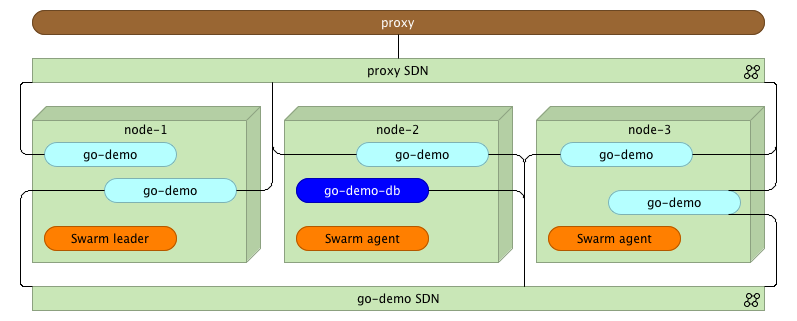
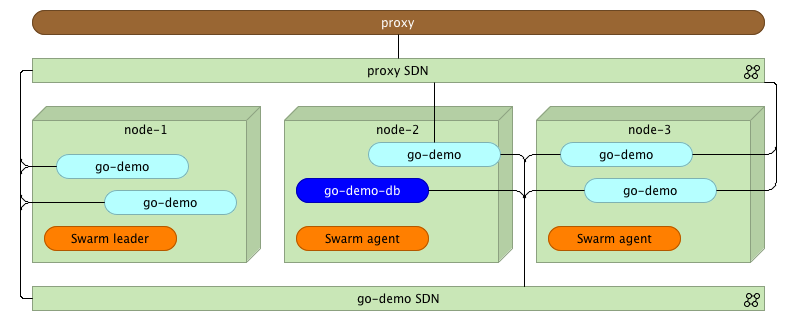
Swarm/Proxy rewrite

diff --git a/docker-swarm/docker-swarm-bundle.md b/docker-swarm/docker-swarm-bundle.md
@@ -1,12 +1,28 @@
+Distributed Application Bundles (Tour Around Docker 1.12 Series)
+================================================================
 
+The new Docker Swarm bundled in Docker 1.12+ is a huge improvement compared to the old orchestration and scheduling. If you haven't have a change to give it a spin, please read the [Docker Swarm Introduction](https://technologyconversations.com/2016/07/29/docker-swarm-introduction-tour-around-docker-1-12-series/) and [Integrating Proxy With Docker Swarm](https://technologyconversations.com/2016/08/01/integrating-proxy-with-docker-swarm-tour-around-docker-1-12-series/). There is no more the need to run a separate set of Swarm containers (it is bundled in Docker Engine), failover strategies are much more reliable, service discovery is baked in, the new networking works like a charm, and so on. The list of features and improvements is quite big.
+
+The above mentioned articles used commands to run Docker services inside the Swarm cluster. If you are like me, you are probably used to the simplicity Docker Compose provides. Instead trying to memorize commands with all the arguments required for running services, you probably specified everything as Docker Compose files and run containers with a simple `docker-compose up -d` command. After all, that is much more convenient than `docker service create` followed with an endless number of arguments. My brain does not have a capacity to memorize all of them. I'm saving it for more creative information.
+
+When I started "playing" with the new Swarm, my first impression was *this is great*, followed by *I don't want to memorize different arguments for all of my services*. I want my Compose files back into the game.
+
+One of the big changes is that container management has changed from client (*Docker Compose*) to server side (*Docker Service*). As a result, *Docker Compose* has become obsolete (at least when containers are deployed using *Docker Service*). It will stay as a preferable way to run containers in a single server environment but not much more. So, what should we do with all those *docker-compose.yml* files we created?
+
+The good news is we can use *Distributed Application Bundles* or *dab* files as a substitute for *docker service* command line arguments. The bad news is... Let's keep them for the end and explore the good parts first.
+
+We'll start by creating a demo Swarm cluster composed of Docker machines.
+
+Environment Setup
+-----------------
+
+The examples that follow assume that you have [Docker Machine](https://www.docker.com/products/docker-machine) version v0.8+ that includes [Docker Engine](https://www.docker.com/products/docker-engine) v1.12+. The easiest way to get them is through [Docker Toolbox](https://www.docker.com/products/docker-toolbox).
+
+> If you are a Windows user, please run all the examples from *Git Bash* (installed through *Docker Toolbox*).
+
+I won't go into details of the environment setup. It is the same as explained in the [Docker Swarm Introduction](https://technologyconversations.com/2016/07/29/docker-swarm-introduction-tour-around-docker-1-12-series/) article. We'll set up three nodes that they will form a Swarm cluster.
 
 ```bash
-git clone https://github.com/vfarcic/go-demo.git
-
-cd go-demo
-
-cat docker-compose.yml
-
 docker-machine create -d virtualbox node-1
 
 docker-machine create -d virtualbox node-2
@@ -28,21 +44,168 @@ docker swarm join --token $TOKEN $(docker-machine ip node-1):2377
 eval $(docker-machine env node-3)
 
 docker swarm join --token $TOKEN $(docker-machine ip node-1):2377
+```
 
+Now that we have the Swarm cluster, we can deploy a service using a *dab* file.
+
+![Docker Swarm cluster with three nodes](img/swarm-nodes.png)
+
+Deploying Services Using Distributed Application Bundles (DAB)
+--------------------------------------------------------------
+
+Instead creating networks and Docker services by specifying an endless amount of arguments, we'll use the dab file. This of it a Swarm equivalent of Docker Compose. By Swarm, I mean `docker swarm`, `docker service` and other goodies that came with version 1.12+.
+
+Instead trying to figure out the details of the new format for specifying services, we'll create it from a *docker-compose.yml* file.
+
+Let's start by checking out the code of a demo service.
+
+```bash
+git clone https://github.com/vfarcic/go-demo.git
+
+cd go-demo
+
+cat docker-compose.yml
+```
+
+The last command output the *Docker Compose* project definition. It is as follows.
+
+```
+version: '2'
+
+services:
+
+  app:
+    image: vfarcic/go-demo
+    ports:
+      - 8080
+
+  db:
+    image: mongo
+```
+
+As you can see, it is a very simple project. It consists of two services. The *app* service is the backend that exposes an API. It uses the second service (*db*) to store and retrieve data. The *app* target exposes port *8080* that will serve as an entry point to its API.
+
+Converting this *Docker Compose* definition into a bundle is a two step process. First we need to pull the images. The creation of the *bundle* will evaluate them and, together with the contents of the *docker-compose.yml* file, output a *dab* file.
+
+Let's try it out.
+
+```bash
 eval $(docker-machine env node-1)
 
 docker-compose pull
 
 docker-compose bundle
+```
 
+Now that the process is finished, let's take a look at the result.
+
+```bash
 cat godemo.dab
+```
 
+The output is as follows.
+
+```
+{
+  "Services": {
+    "app": {
+      "Image": "vfarcic/go-demo@sha256:f7436796b1cd6812ba63ea82c6523a5164ae7f8a3c05daa9e4ac4bd78341d709",
+      "Networks": [
+        "default"
+      ],
+      "Ports": [
+        {
+          "Port": 8080,
+          "Protocol": "tcp"
+        }
+      ]
+    },
+    "db": {
+      "Image": "mongo@sha256:e599c71179c2bbe0eab56a7809d4a8d42ddcb625b32a7a665dc35bf5d3b0f7c4",
+      "Networks": [
+        "default"
+      ]
+    }
+  },
+  "Version": "0.1"
+}
+```
+
+The *godemo.dab* file we just created is pretty straightforward. It consists of two services that match two those from the *docker-compose.yml* file. Each of them has the image that is defined with the hashes of those we pulled. Images are follows by the default network that will surround the services and the ports that should be opened.
+
+There are, at least, two problems with this output. First of all, there is no need to open any ports. Instead, we should have a reverse proxy that will redirect all request to the service. The new Docker Swarm networking makes integration with a proxy easy and we should exploit that. Please read the [Integrating Proxy With Docker Swarm](https://technologyconversations.com/2016/08/01/integrating-proxy-with-docker-swarm-tour-around-docker-1-12-series/) article for more info behind the role of a proxy inside a Swarm cluster.
+
+The second issue is that we did not specify any constraints. Deploying unconstrained services to the cluster can quickly turn into a disaster.
+
+A better, yet still very simple, Compose definition can be seen in the [docker-compose-swarm.yml](https://github.com/vfarcic/go-demo/blob/master/docker-compose-swarm.yml) file. Its content is as follows.
+
+```
+version: '2'
+
+services:
+
+  app:
+    image: vfarcic/go-demo
+    mem_limit: 250m
+
+  db:
+    image: mongo
+    mem_limit: 500m
+```
+
+As you can see, we removed the port and added a *mem_limit* constraint. It's, still, a very simple Compose file.
+
+Let's create a new bundle output.
+
+```bash
+docker-compose -f docker-compose-swarm.yml bundle
+```
+
+The output of the `bundle` command is as follows.
+
+```
+WARNING: Unsupported key 'mem_limit' in services.app - ignoring
+WARNING: Unsupported key 'mem_limit' in services.db - ignoring
+Wrote bundle to godemo.dab
+```
+
+Now we are coming to the first bad news. The current *bundle* format is very limiting. We can use it for very simple scenarios. As soon as we specify anything more complex we are faced with a warning. In this case, the memory limit was ignored.
+
+Let's leave this limitation aside (for now) and try to deploy the new bundle.
+
+```bash
 docker deploy godemo
+```
 
-docker service ls
+The output of the `deploy` command is as follows.
 
+```
+Loading bundle from godemo.dab
+Creating network godemo_default
+Creating service godemo_app
+Creating service godemo_db
+```
+
+Both the network and the service were created. We can confirm that by listing all services.
+
+```bash
 docker stack ps godemo
 ```
 
-* Inability to specify constraints
-* https://github.com/mantika/whaleprint
+You should see that the stack consists of two services, each of them deployed somewhere inside the three nodes cluster, and with the current state set to *running*. If the state is anything else, please wait a few moments until containers are pulled and re-run the command.
+
+However, we are still faced with the missing features. Our memory limit was ignored and we are yet to create an external network *proxy* and attach the *app* service to it.
+
+We can fix those shortcomings by executing the `service update` command. For example, we can create the *proxy* network manually and add the container to it. We can also use the `service update` to set the memory limit. However, if we start doing all that, we would, probably, be better of without the bundle in the first place.
+
+What To Do Now?
+---------------
+
+Before you go off and completely discard the *bundle*, please note that it is in experimental stage. This was just the taste of what is to come. We can expect great improvements and full support for all the features Swarm has to offer.
+
+This poses a question what to do today. We'll, the are a several paths we can take. One is to wait for the *bundle* to get out of the experimental stage and support all the features Docker Swarm has to offer. The other approach is to use the [Whaleprint project](https://github.com/mantika/whaleprint). It looks like a mixture of a *dab* file with additional features (e.g. constrains) and the approach *Terraform* uses. It is a very promising project. But, just like the *bundle*, it is still in its infancy.
+
+I hope this article gave you a preview of the direction the new Swarm is taking. The *bundle* is under development and we can expect it to become a reliable alternative to deploying services to the cluster. Please do not get discouraged by its lack of features but think of it as a blueprint of what is to come.
+
+For now, I recommend you to keep an open eye on the *Distributed Application Bundle* and wait until it matures. In the mean time, operate the Swarm cluster through the commands or give the *Whaleprint* project a try.
+

diff --git a/docker-swarm/docker-swarm-proxy.md b/docker-swarm/docker-swarm-proxy.md
@@ -102,20 +102,19 @@ docker service create --name proxy \
     -p 443:443 \
     -p 8080:8080 \
     --network proxy \
-    --constraint node.hostname=="node-1" \
     -e MODE=swarm \
     vfarcic/docker-flow-proxy
 ```
 
 We opened ports *80* and *443* that will serve Internet traffic (*HTTP* and *HTTPS*). The third port is *8080*. We'll use it to send configuration requests to the proxy. Further on, we specified that it should belong to the *proxy* network. That way, since *go-demo* is also attached to the same network, the proxy can access it through the SDN.
 
-Unlike other containers that will be accessible through the proxy, we cannot allow this one to be deployed on a random node. That would pose difficulties when setting up the DNS. So, we want to be sure that it is running on a predetermined node. To accomplish that, we used the `--constraint` argument that specified the hostname of the destination server. Please note that the proxy is one of the very few services (if any) that should run on a particular server. We should let Swarm decide where to deploy services. That does not mean that we shouldn't use constraints, but that they should be limited to resources we need. We should specify how many CPUs a service needs, how much memory, and so on. In other words, you should know where the proxy is so that you can set up DNS records and let Swarm decide where to run for all other services.
+Through the proxy we just run we can observe one of the cool features of the network routing mesh. It does not matter on which server the proxy is running. We can send a request to any of the nodes and Docker network will make sure that it is redirected to one of the proxies.
 
 The last argument is the environment variable *MODE* that tells the proxy that containers will be deployed to a Swarm cluster. Please consult the project [README](https://github.com/vfarcic/docker-flow-proxy) for other combinations.
 
 ![Docker Swarm cluster the proxy service](img/swarm-nodes-proxy.png)
 
-> Please note that the proxy, even though it is running inside the node-1, is placed outside to illustrate logical separation better.
+> Please note that the proxy, even though it is running inside one of the nodes, is placed outside to illustrate logical separation better.
 
 Before we proceed, let's confirm that the proxy is running.
 
@@ -150,7 +149,15 @@ Content-Type: text/plain; charset=utf-8
 hello, world!
 ```
 
-Proxy works! It responded with the HTTP status *200* and returned the API response *hello, world!*.
+The proxy works! It responded with the HTTP status *200* and returned the API response *hello, world!*.
+
+Please note that it does not matter to which node we send the request. Since Docker networking (routing mesh) takes care of load balancing, we can hit any of the servers. As an example, let's send the same request but, this time, to the *node-3*.
+
+```bash
+curl -i $(docker-machine ip node-3)/demo/hello
+```
+
+The result is still the same.
 
 Let's explore the configuration generated by the proxy.
 
@@ -161,7 +168,19 @@ If you choose to roll-up your own proxy solution, it might be useful to understa
 
 Let's start by examining the configuration *[Docker Flow: Proxy](https://github.com/vfarcic/docker-flow-proxy)* created for us. We can do that by entering the running container to take a sneak peek at the */cfg/haproxy.cfg* file. The problem is that finding a container run by Docker Swarm is a bit tricky. For example, if we deployed it with Docker Compose, the container name would be predictable. It would use <PROJECT>_<SERVICE>_<INDEX> format. The `docker service` command runs containers with hashed names. The *docker-flow-proxy* created on my laptop has the name *proxy.1.e07jvhdb9e6s76mr9ol41u4sn*. Therefore, to get inside a running container deployed with Docker Swarm, we need to use a filter with, for example, image name.
 
-Having all that into account, the command that will output configuration of the proxy is as follows.
+First, we need to find out on which node the proxy is running.
+
+```bash
+docker service ps proxy
+```
+
+Please note the value of the *node* column and make sure that it is used in the command that follows.
+
+```bash
+eval $(docker-machine env node-1) # Change node-1 with the node value previously obtained
+```
+
+The command that will output configuration of the proxy is as follows.
 
 ```bash
 docker exec -it \
@@ -194,6 +213,8 @@ Load Balancing
 Before we start load balancing explanation, let's create a few more instances of the *go-demo* service.
 
 ```bash
+eval $(docker-machine env node-1)
+
 docker service update --replicas 5 go-demo
 ```
 
